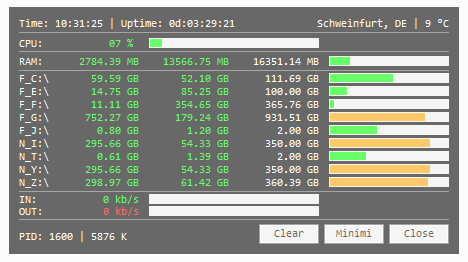
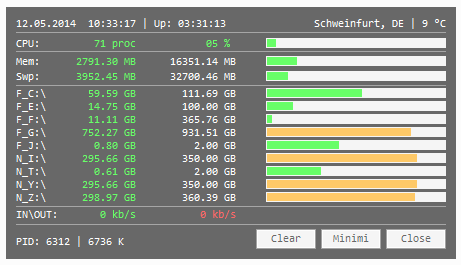
Update to v0.8.0
Update README
Update Screenshot
Update src\htopmini

diff --git a/README.md b/README.md
@@ -17,11 +17,12 @@ Small System-Info Tool via AutoHotkey
 
 
 ## Info
-* Version: v0.7.6
+* Version: v0.8.0
 * URL: [AHK Thread](http://ahkscript.org/boards/viewtopic.php?f=6&t=254)
 
 
 ## Changelog
+* 0.8.0 | Clear Memory, Add SWP, Bugfixes
 * 0.7.6 | Add CPU Load, Bugfixes
 * 0.7.5 | Update with days
 * 0.7.4 | Bugfixes & Improvements
